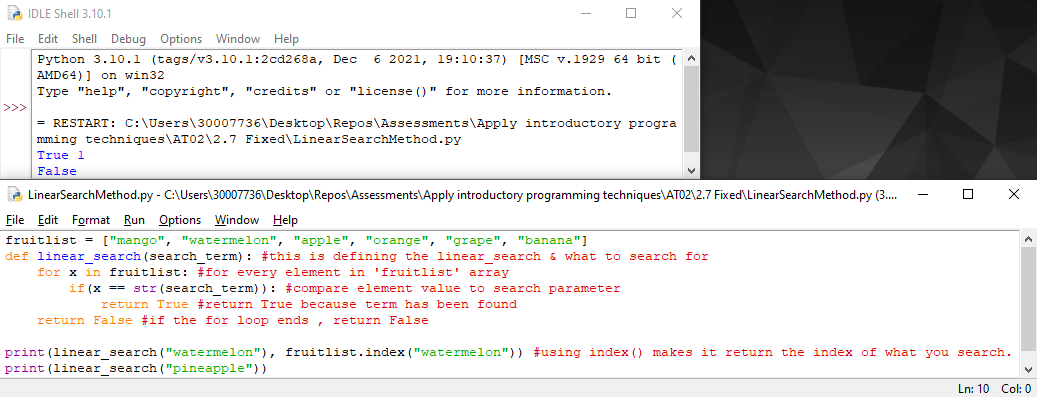
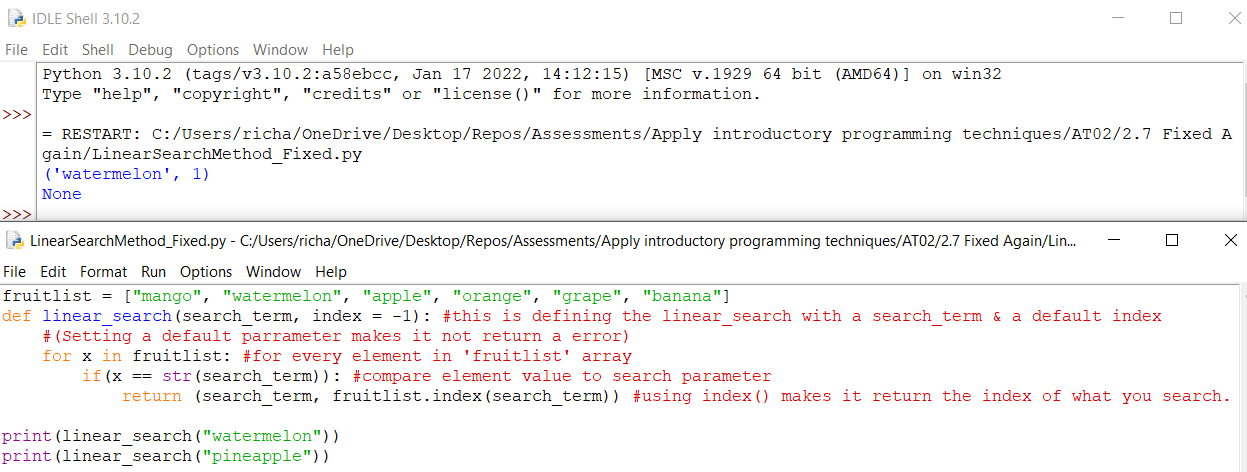
Submitted AT02.7

diff --git a/Apply introductory programming techniques/AT02/2.7 Fixed Again/LinearSearchMethod_Basic.py b/Apply introductory programming techniques/AT02/2.7 Fixed Again/LinearSearchMethod_Basic.py
@@ -1,11 +1,10 @@
 fruitlist = ["mango", "watermelon", "apple", "orange", "grape", "banana"]
-def linear_search(search_term): #this is defining the linear_search & what to search for
+def linear_search(search_term, index = -1): #this is defining the linear_search & what to search for
     for x in fruitlist: #for every element in 'fruitlist' array
         if(x == str(search_term)): #compare element value to search parameter
-            f = fruitlist.index(search_term) #using index() makes it return the index of what you search.
-            return print(str(search_term), f)
+            print(fruitlist.index(search_term)) #using index() makes it return the index of what you search
         elif(x != str(search_term)): #this only will happen if the search_term is not in fruitlist
-            print(str(search_term), -1) #I am only making it print -1 just so it doesn't bring back a error
+            print(index) #I am only making it print -1 just so it doesn't bring back a error
 
 linear_search("watermelon")
 linear_search("pineapple")

diff --git a/Apply introductory programming techniques/AT02/2.7 Fixed Again/LinearSearchMethod_Fixed.py b/Apply introductory programming techniques/AT02/2.7 Fixed Again/LinearSearchMethod_Fixed.py
@@ -3,9 +3,7 @@ def linear_search(search_term, index = -1): #this is defining the linear_search 
     #(Setting a default parrameter makes it not return a error)
     for x in fruitlist: #for every element in 'fruitlist' array
         if(x == str(search_term)): #compare element value to search parameter
-            print(search_term, fruitlist.index(search_term)) #using index() makes it return the index of what you search
-        elif(x != str(search_term)): #this only will happen if the search_term is not in fruitlist
-            print(search_term, index) #I am only making it print -1 just so it doesn't bring back a error
+            return (search_term, fruitlist.index(search_term)) #using index() makes it return the index of what you search.
 
-linear_search("watermelon")
-linear_search("pineapple")
+print(linear_search("watermelon"))
+print(linear_search("pineapple"))
